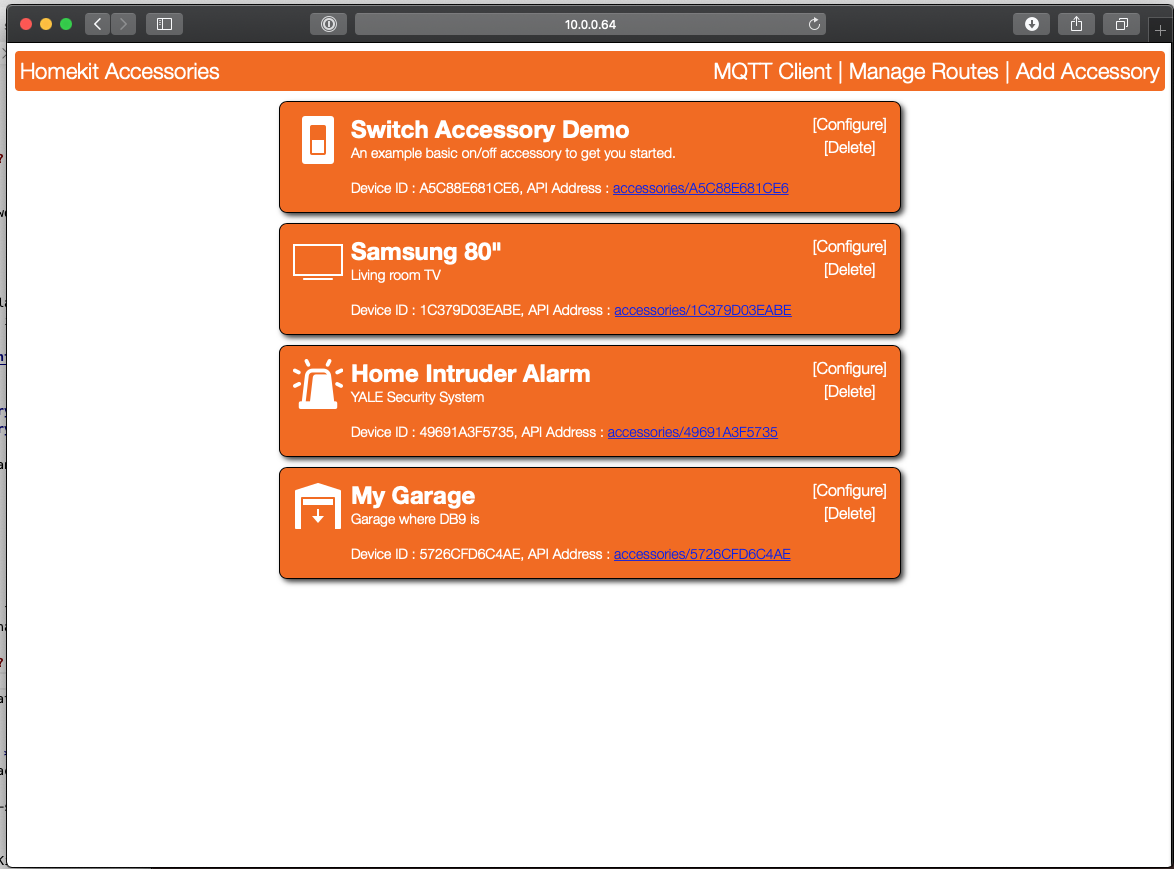
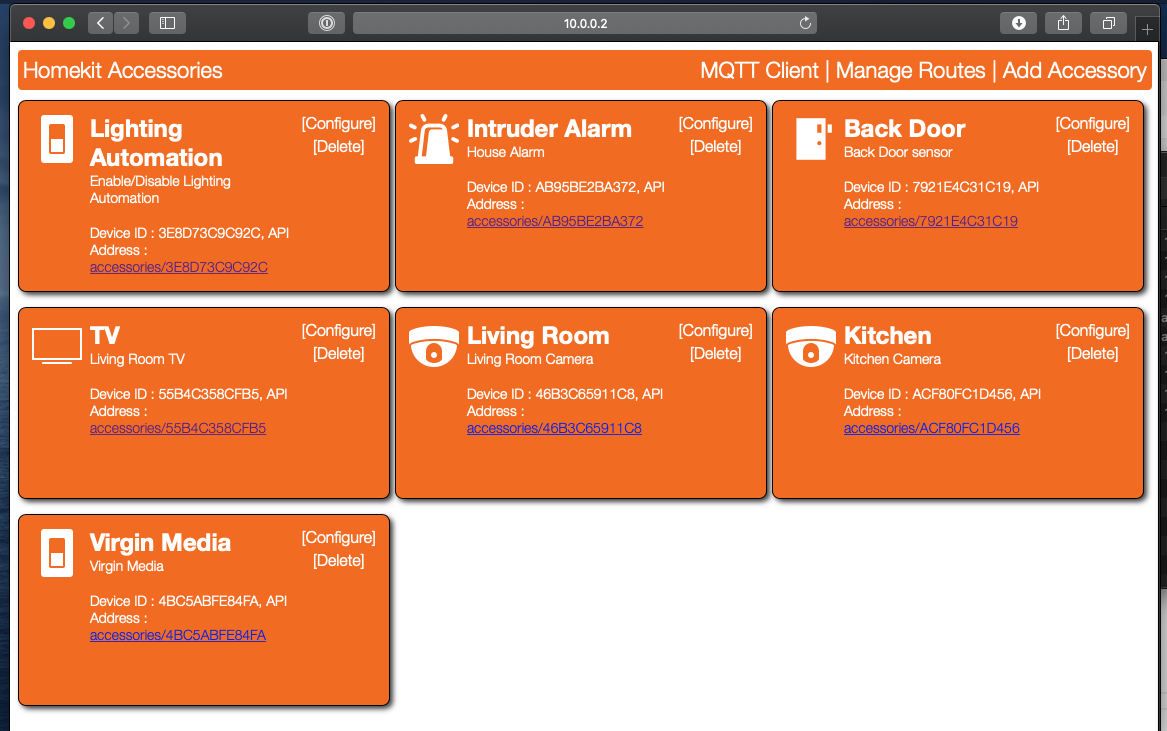
Layout

diff --git a/ui/static/Style/style.css b/ui/static/Style/style.css
@@ -70,11 +70,12 @@ img.invert {
 
 
 .Accessory {
-    width: 600px;
+    display: inline-block;
+    width: 350px;
     margin-top:10px;
     margin-left: auto;
     margin-right:auto;
-    height: 90px;
+    height: 170px;
     padding-left: 5px;
     color: rgb(255,255,255);
     font-size: 16px;
@@ -83,7 +84,6 @@ img.invert {
     -moz-border-radius: 8px;
     border-radius: 8px;
     overflow: hidden;
-    margin-bottom:10px;
     border-width:1px;
     border-color:rgb(0,0,0);
     border-style:solid;

diff --git a/README.md b/README.md
@@ -119,6 +119,8 @@ HomeKit Device Stack is based on the awesome [HAP-NodeJS](https://github.com/Kha
 library, without it, projects like this one are not possible.
 
 ## Version History
+  - **1.1.2**  
+    Improved layout for acessories UI.
   - **1.1.1**  
     Removed unused parameter from Server constructor.
   - **1.1.0**  
